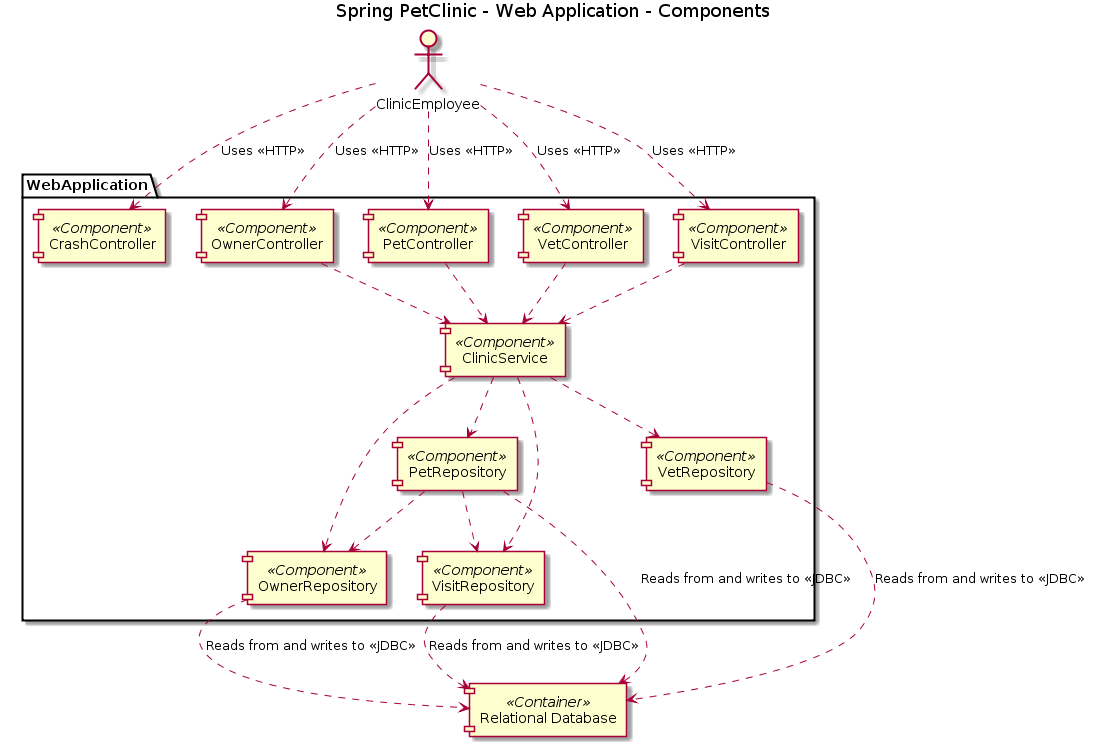
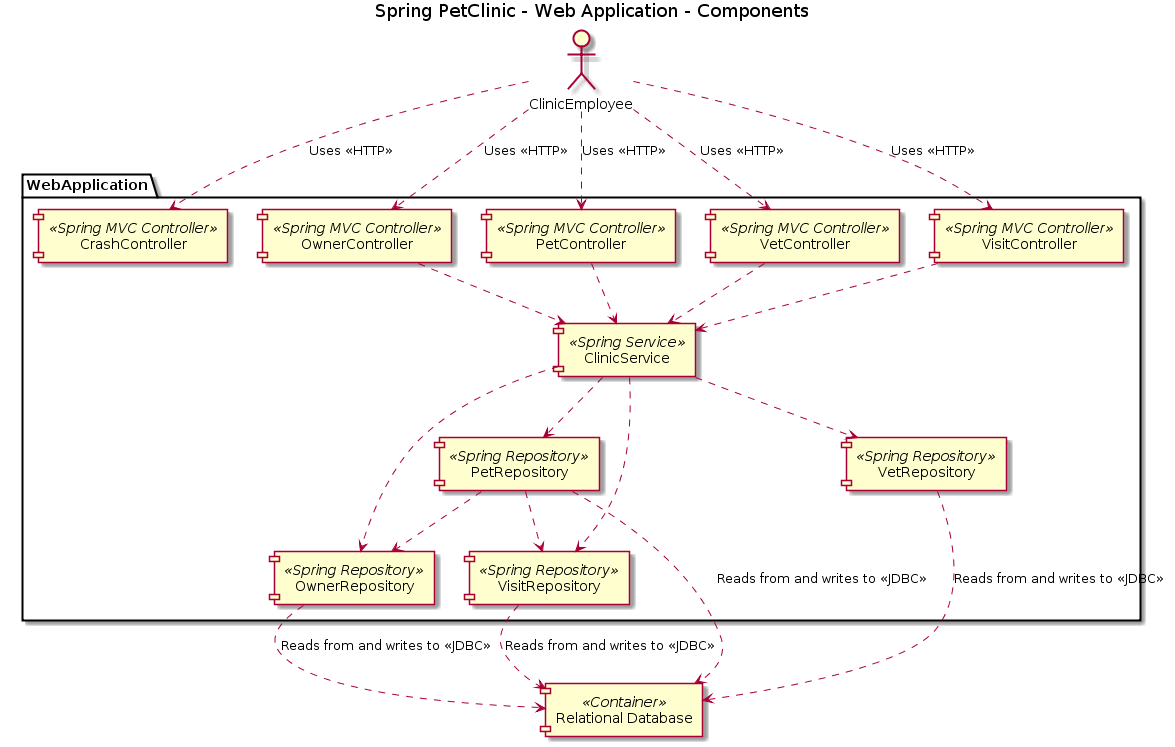
Changed the way that component stereotypes are generated.

diff --git a/structurizr-core/test/unit/com/structurizr/io/plantuml/PlantUMLWriterTests.java b/structurizr-core/test/unit/com/structurizr/io/plantuml/PlantUMLWriterTests.java
@@ -50,9 +50,9 @@ public class PlantUMLWriterTests {
         webApplication.uses(database, "Reads from and writes to", "JDBC");
         webApplication.uses(emailSystem, "Sends e-mail using");
 
-        Component controller = webApplication.addComponent("SomeController", "");
+        Component controller = webApplication.addComponent("SomeController", "", "Spring MVC Controller");
         Component emailComponent = webApplication.addComponent("EmailComponent", "");
-        Component repository = webApplication.addComponent("SomeRespoitory", "");
+        Component repository = webApplication.addComponent("SomeRepository", "", "Spring Data");
         user.uses(controller, "Uses", "HTTP");
         controller.uses(repository, "");
         controller.uses(emailComponent, "");
@@ -100,14 +100,14 @@ public class PlantUMLWriterTests {
                 "actor User" + System.lineSeparator() +
                 "package WebApplication {" + System.lineSeparator() +
                 "  [EmailComponent] <<Component>> as EmailComponent" + System.lineSeparator() +
-                "  [SomeController] <<Component>> as SomeController" + System.lineSeparator() +
-                "  [SomeRespoitory] <<Component>> as SomeRespoitory" + System.lineSeparator() +
+                "  [SomeController] <<Spring MVC Controller>> as SomeController" + System.lineSeparator() +
+                "  [SomeRepository] <<Spring Data>> as SomeRepository" + System.lineSeparator() +
                 "}" + System.lineSeparator() +
                 "EmailSystem ..> User : Delivers e-mails to " + System.lineSeparator() +
                 "EmailComponent ..> EmailSystem : Sends e-mails using <<SMTP>>" + System.lineSeparator() +
                 "SomeController ..> EmailComponent  " + System.lineSeparator() +
-                "SomeController ..> SomeRespoitory  " + System.lineSeparator() +
-                "SomeRespoitory ..> Database : Reads from and writes to <<JDBC>>" + System.lineSeparator() +
+                "SomeController ..> SomeRepository  " + System.lineSeparator() +
+                "SomeRepository ..> Database : Reads from and writes to <<JDBC>>" + System.lineSeparator() +
                 "User ..> SomeController : Uses <<HTTP>>" + System.lineSeparator() +
                 "@enduml" + System.lineSeparator() +
                 "" + System.lineSeparator(), stringWriter.toString());

diff --git a/structurizr-core/src/com/structurizr/io/plantuml/PlantUMLWriter.java b/structurizr-core/src/com/structurizr/io/plantuml/PlantUMLWriter.java
@@ -179,6 +179,9 @@ public final class PlantUMLWriter implements WorkspaceWriter {
     private String typeOf(Element e) {
         if (e instanceof SoftwareSystem) {
             return "Software System";
+        } else if (e instanceof Component) {
+            Component component = (Component)e;
+            return hasValue(component.getTechnology()) ? component.getTechnology() : "Component";
         } else {
             return e.getClass().getSimpleName();
         }
